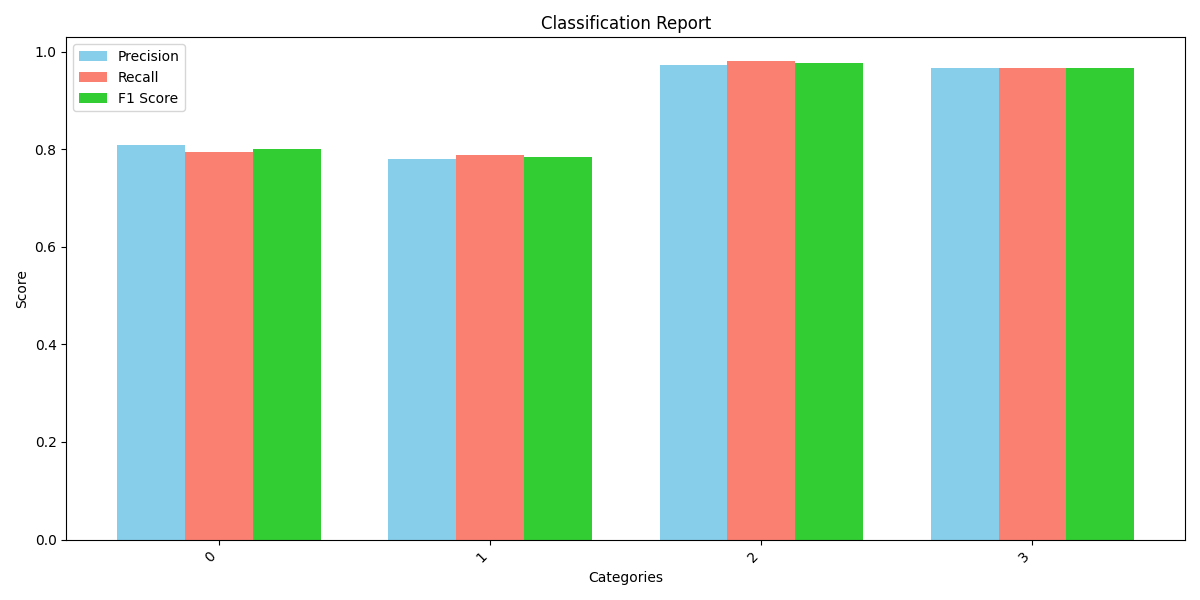
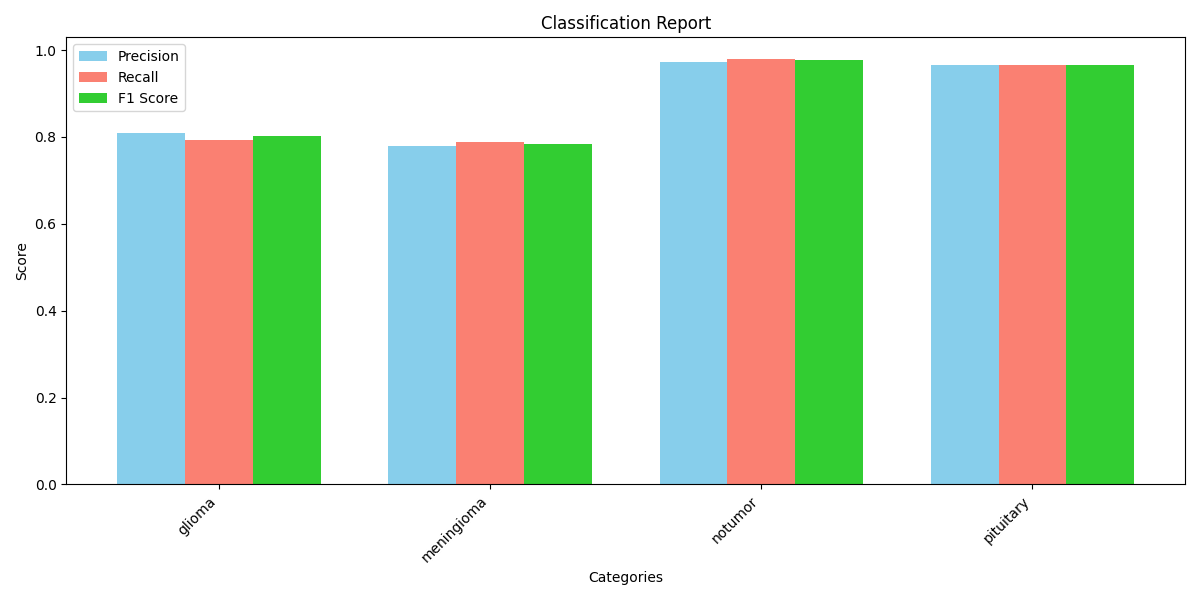
[M] Label For Plotting Fixed

diff --git a/main.py b/main.py
@@ -80,7 +80,7 @@ def test_svm(test_images,test_labels,svm,save_path="evaluation.png"):
     cm = confusion_matrix(test_labels, predictions)
     
     plt.figure(figsize=(10, 8))
-    sns.heatmap(cm, annot=True, fmt='d', cmap='Blues', xticklabels=np.unique(test_labels), yticklabels=np.unique(test_labels))
+    sns.heatmap(cm, annot=True, fmt='d', cmap='Blues', xticklabels=np.unique(CLASS_NAMES), yticklabels=np.unique(CLASS_NAMES))
     plt.title('Confusion Matrix')
     plt.xlabel('Predicted Labels')
     plt.ylabel('True Labels')
@@ -93,7 +93,7 @@ def test_svm(test_images,test_labels,svm,save_path="evaluation.png"):
     recall = [report[cat]['recall'] for cat in categories]
     f1_score = [report[cat]['f1-score'] for cat in categories]
 
-    x = np.arange(len(categories))  
+    x = np.arange(len(categories)) 
     width = 0.25  
 
     plt.figure(figsize=(12, 6))
@@ -101,7 +101,7 @@ def test_svm(test_images,test_labels,svm,save_path="evaluation.png"):
     plt.bar(x, recall, width, label='Recall', color='salmon')
     plt.bar(x + width, f1_score, width, label='F1 Score', color='limegreen')
     
-    plt.xticks(x, categories, rotation=45, ha='right')
+    plt.xticks(x, np.unique(CLASS_NAMES), rotation=45, ha='right')
     plt.title('Classification Report')
     plt.xlabel('Categories')
     plt.ylabel('Score')
